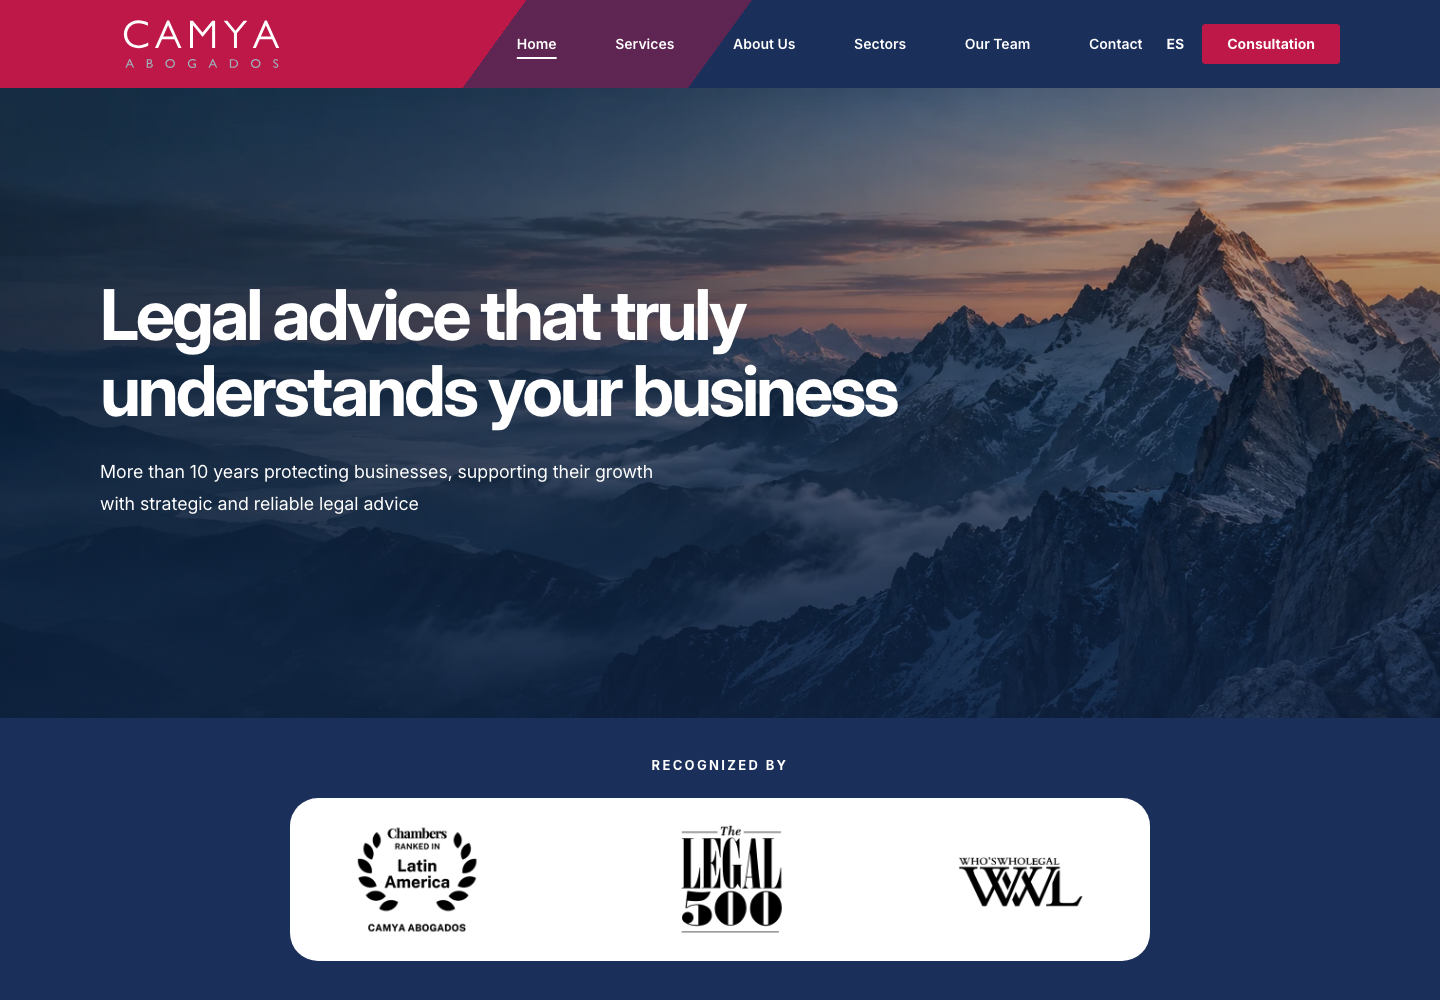
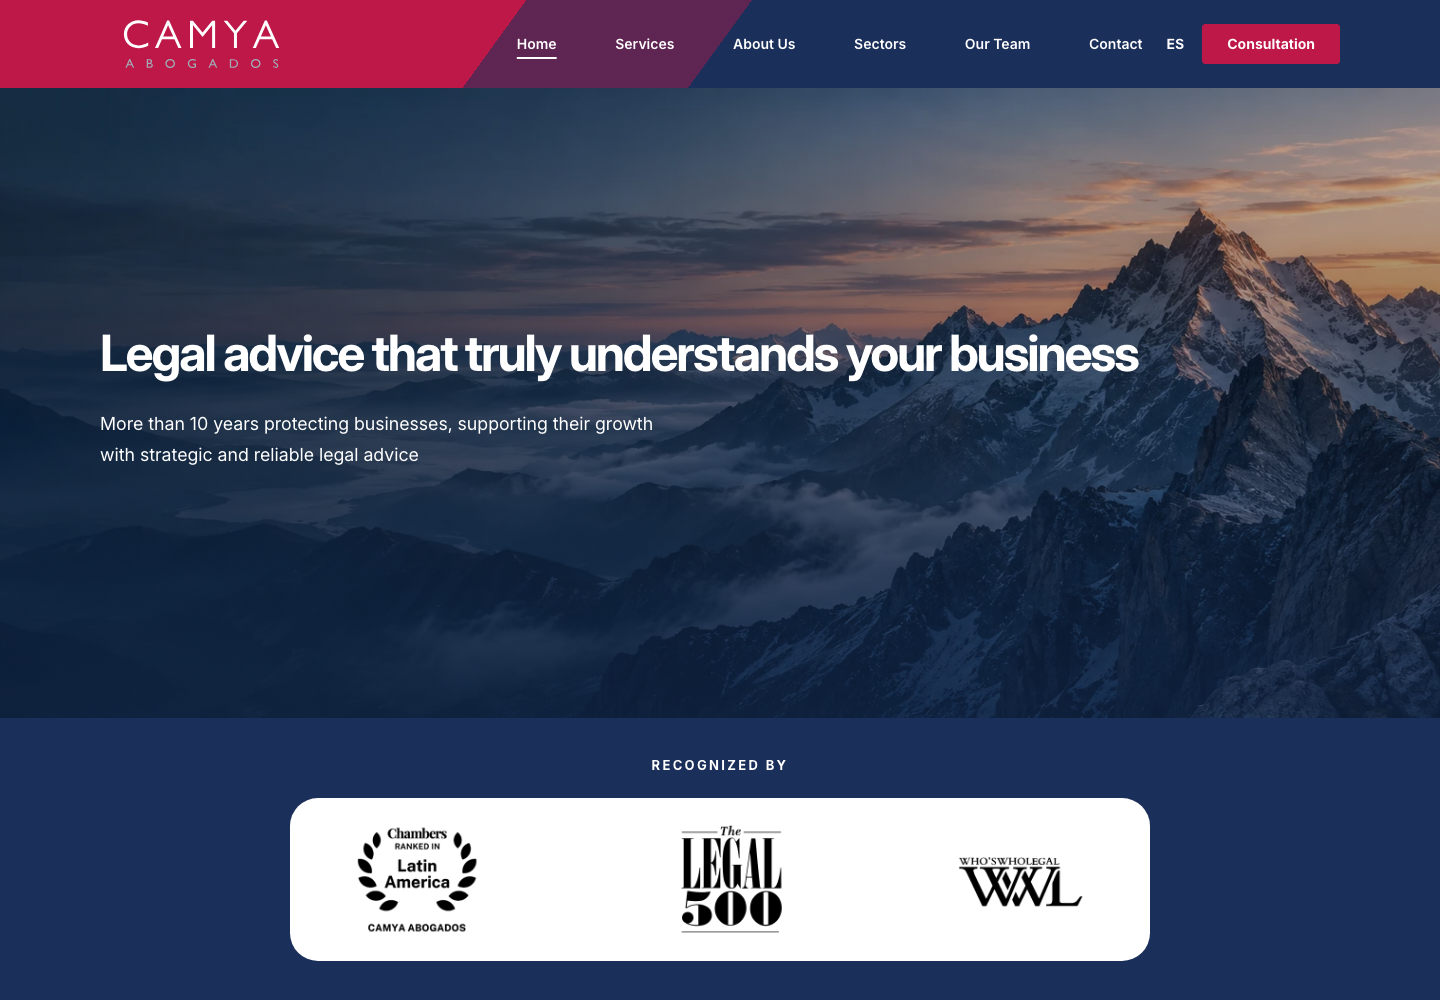
Keep homepage hero heading on one desktop line

Changed region(s): [[0.0625, 0.279, 0.8125, 0.527]]

diff --git a/tests/home-refresh.spec.js b/tests/home-refresh.spec.js
@@ -16,6 +16,14 @@ for (const width of [375, 390, 430, 768, 1440]) {
       await page.goto(copy.route);
       await page.evaluate(() => document.fonts.ready);
       await expect(page.locator('h1')).toHaveText(copy.title);
+      if (width >= 1024) {
+        const lines = await page.locator('h1').evaluate(title => {
+          const range = document.createRange();
+          range.selectNodeContents(title);
+          return range.getClientRects().length;
+        });
+        expect(lines).toBe(1);
+      }
       await expect(page.locator('.camya-hero-description')).toHaveText(copy.subtitle);
       await expect(page.locator('#home-navigation a')).toHaveText(copy.labels);
       await expect(page.locator('.camya-language')).toHaveAttribute('href', copy.language);

diff --git a/dist/home.css b/dist/home.css
@@ -109,6 +109,15 @@ body.camya-home-refresh {
 }
 .camya-hero-description {max-width: 570px; margin: 28px 0 0; font-size: 18px; line-height: 1.75; font-weight: 400}
 
+@media (min-width: 1024px) {
+  .camya-hero h1 {
+    max-width: none;
+    font-size: clamp(32px, 3.5vw, 50px);
+    white-space: nowrap;
+    text-wrap: nowrap;
+  }
+}
+
 .camya-recognition {padding: 38px 0 48px; background: var(--camya-blue)}
 .camya-recognition h2 {margin: 0 0 24px; text-align: center; color: #fff; font-size: 13px; font-weight: 700; line-height: 1.4; letter-spacing: 0.18em}
 .camya-recognition-capsule {

diff --git a/verification/HOME_REFRESH_FR.md b/verification/HOME_REFRESH_FR.md
@@ -6,6 +6,8 @@ Le header utilise le dégradé demandé et le logo CAMYA original `wp-content/up
 
 Le bandeau logo/menu est ensuite ajusté à la référence du client : hauteur de 88 px sur ordinateur, 76 px sur tablette et 72 px sur téléphone, diagonale de 126° avec bande de transition bordeaux, logo original et navigation répartie sur la même ligne. La barre de coordonnées et réseaux sociaux d'origine est déplacée dans le footer existant pour commencer directement par le header. Le menu mobile reste accessible sous 1280 px et la version anglaise conserve son accès. Les boutons du hero restent supprimés.
 
+À la demande du client, le titre du hero est affiché sur une seule ligne à partir de 1024 px, avec une taille proportionnelle à la largeur (32 à 50 px). Le titre anglais utilise la même règle. Sur téléphone et tablette, les retours à la ligne et les tailles lisibles restent conservés.
+
 | Menu espagnol | Destination |
 | --- | --- |
 | Inicio | `/` |
